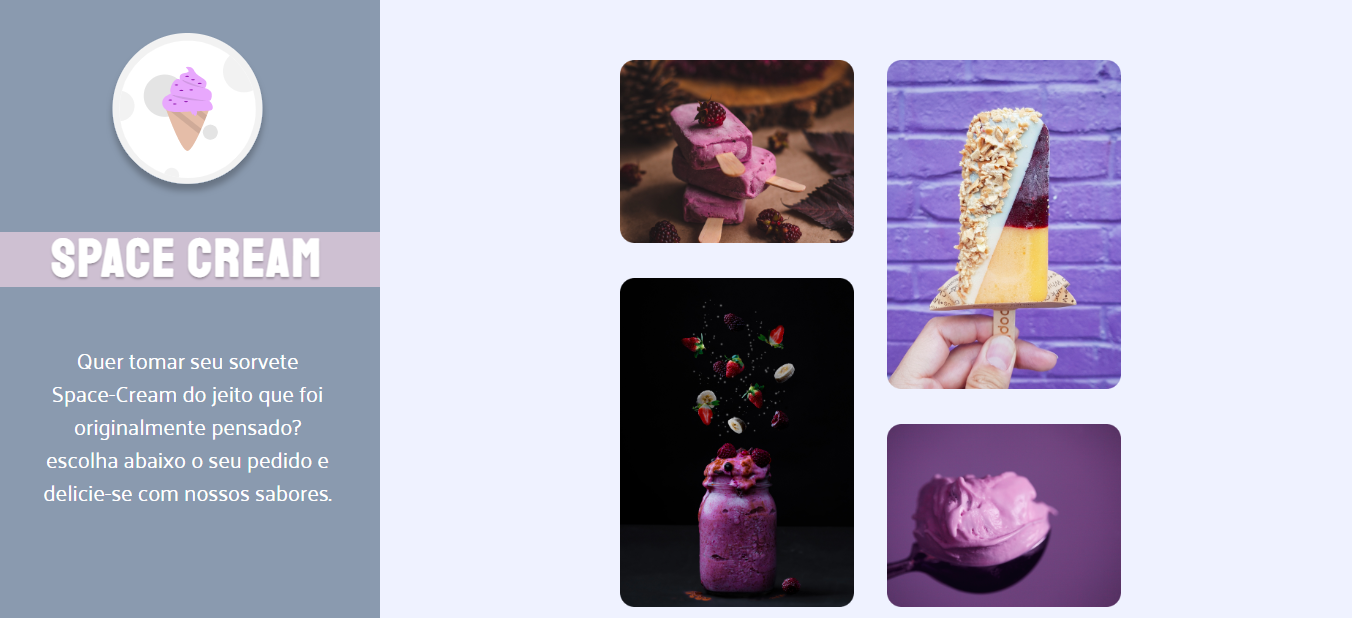
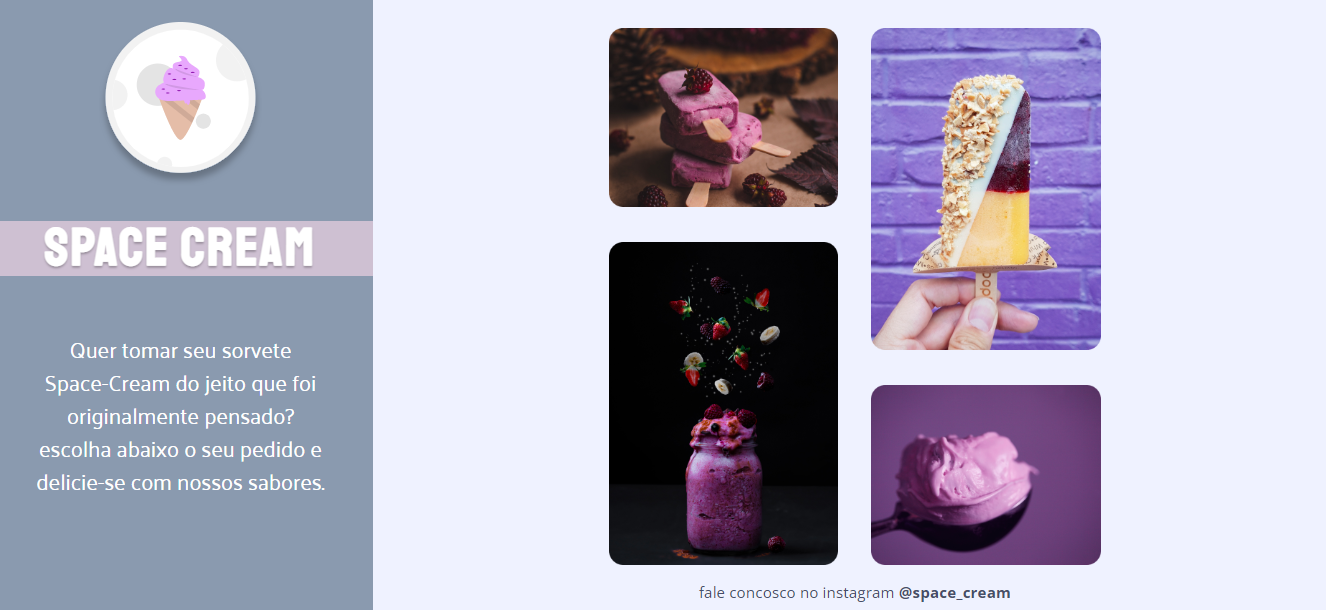
add index.html

diff --git a/style.css b/style.css
@@ -189,6 +189,7 @@ span {
   }
 
   main {
+    
     width: 100%;
     padding: 4.4rem 3.2rem 0;
 
@@ -239,9 +240,11 @@ span {
   }
 
   main {
+    
       padding: 12.4rem 15.1rem 7rem;
   }
   .fotos {
+    
       grid-template-areas:
       "A B"     
       "C B"
@@ -262,4 +265,20 @@ span {
   .fotos div:nth-child(4) {
       grid-area: C;
   }
+}
+
+footer {
+  color: #4A4E69;
+  font-family: 'Open Sans';
+  font-size: 1.4rem;
+  line-height: 2.8rem;
+  text-align: center;
+  margin: 1rem;
+}
+
+footer a {
+  text-decoration: none;
+  font-style: normal;
+  color: #4A4E69;
+  font-weight: bold;
 }

diff --git a/index.html b/index.html
@@ -45,7 +45,13 @@
             <img src="./images/png.4.png" alt="Picolé diferente com 3 sabores">
         </div>
       </div>
+
+      <footer>
+        fale concosco no instagram <a target="_blank" href="#">@space_cream</a>
+      </footer>
     </main> 
+
+   
   </div>
 </body>
 </html
